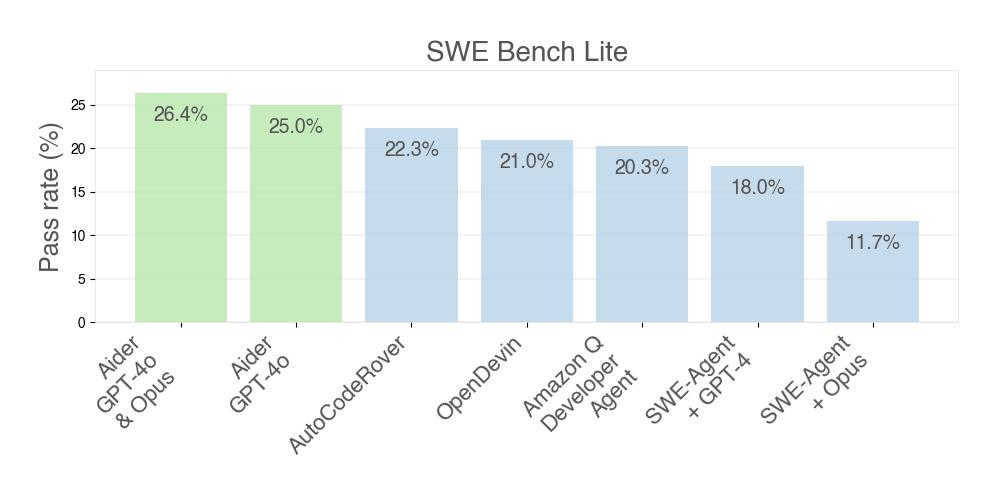
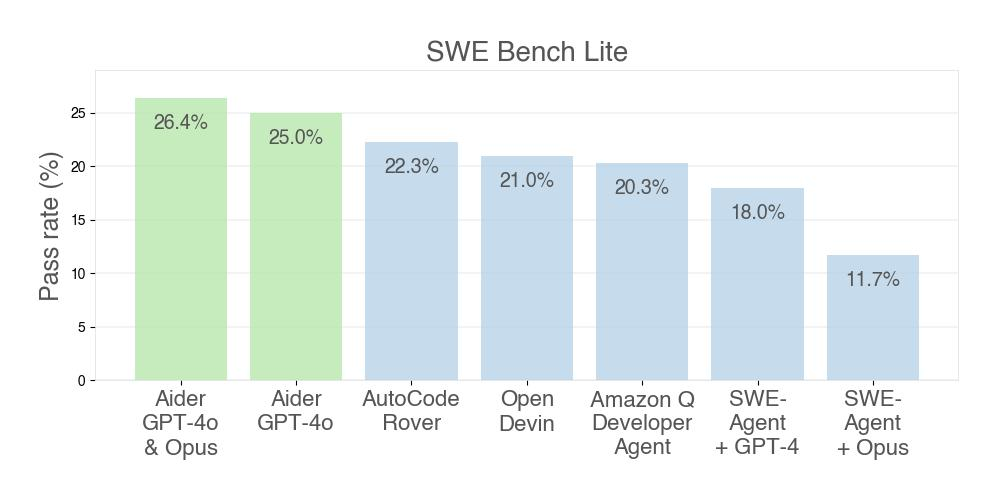
copy

diff --git a/benchmark/swe_bench_lite.py b/benchmark/swe_bench_lite.py
@@ -50,7 +50,12 @@ def plot_swe_bench_lite(data_file):
     ax.set_ylabel("Pass rate (%)", fontsize=18, color=font_color)
     ax.set_title("SWE Bench Lite", fontsize=20)
     ax.set_ylim(0, 29)
-    plt.xticks(rotation=45, ha="right", fontsize=16, color=font_color)
+    plt.xticks(
+        # rotation=45,
+        # ha="center",
+        fontsize=16,
+        color=font_color,
+    )
     plt.tight_layout(pad=3.0)
     plt.savefig("swe_bench_lite.jpg")
     plt.savefig("swe_bench_lite.svg")
